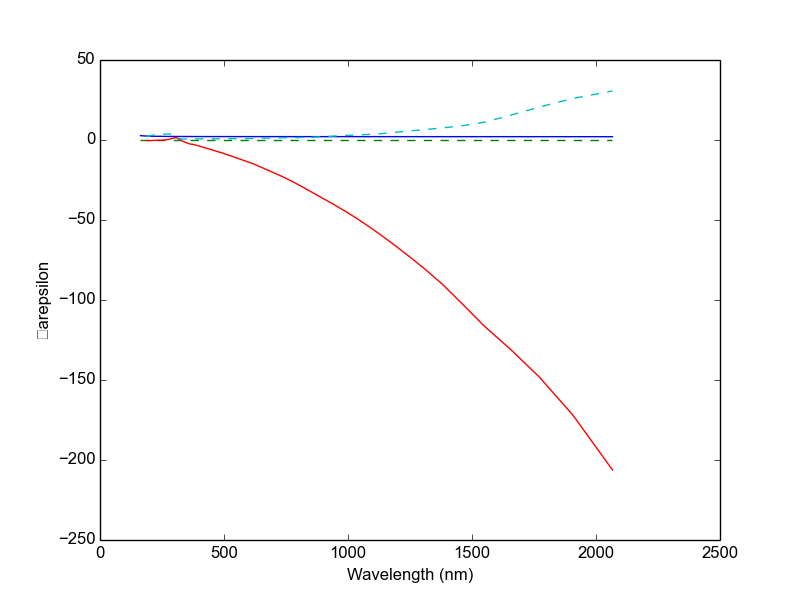
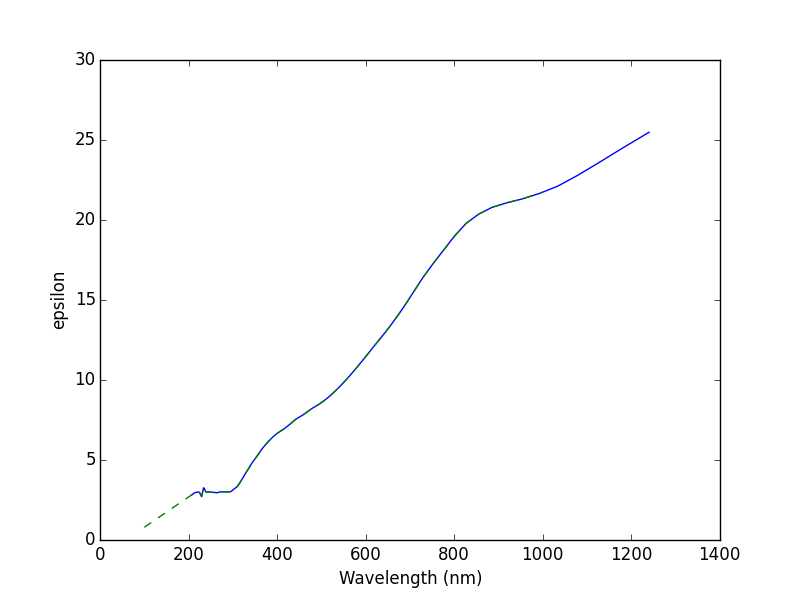
Fixed interpolation of dielectric complex-valued permittivity

diff --git a/SimpleSPP/makeTable.py b/SimpleSPP/makeTable.py
@@ -41,7 +41,7 @@ dbarray = loadtxt(database, dtype='str', delimiter='\t')
 # Now, we shall construct database for SPP lifetimes. Actually, SPP lifetime require the knowledge of all spectrum of response to be known. 
 MaterialFolder="/usr/local/share/gsvit/data/spectra"
 MaterialFile1="SiO2"
-MaterialFile2="Ag"
+MaterialFile2="Ti"
 
 # Loading Material dielectric complex permittivity into arrays
 MaterialArray2 = loadtxt(MaterialFolder+'/'+MaterialFile2, delimiter=' ', skiprows=4)
@@ -68,26 +68,27 @@ eps1=np.power(np.add(n,np.multiply(1j, k)),2)
 #print eps1
 
 wavelengths2=MaterialArray2[:,0]
-wavelengths2=np.multiply(wavelengths2,1e-6) #converting wavelength to emters
+wavelengths2=np.multiply(wavelengths2,1e-6) #converting wavelength to meters
 n=MaterialArray2[:,1]; k=MaterialArray2[:,2]
 eps2=np.power(np.add(n,np.multiply(1j, k)),2)
 #print eps2
 
 # Before doing calculations, we shall interpolate the most dense mesh on the second, and take their intersection. 
-print eps1.size, eps2.size
+print "Wavelength mesh size 1="+str(eps1.size)
+print "Wavelength mesh size 2="+str(eps2.size)
 
-xnew = np.arange(100e-9,2e-6,10e-9)
+# dense mesh generation
+xnew = np.arange(100e-9,1e-6,1e-9)
 order=1
-feps1=InterpolatedUnivariateSpline(wavelengths1, eps1, k=order)
-feps2=InterpolatedUnivariateSpline(wavelengths2, eps2, k=order)
-eps1new=feps1(xnew)
-eps2new=feps2(xnew)
-# TODO: careful this does not work for complex-valued functions
+feps1r=InterpolatedUnivariateSpline(wavelengths1, eps1.real, k=order)
+feps1i=InterpolatedUnivariateSpline(wavelengths1, eps1.imag, k=order)
+feps2r=InterpolatedUnivariateSpline(wavelengths2, eps2.real, k=order)
+feps2i=InterpolatedUnivariateSpline(wavelengths2, eps2.imag, k=order)
 
-def RealDerivativeByComplex(f,z):
-  """Complex derivative a real-valued function f: z->f(z)
-  """
-  return 0.5*(np.diff(f,z.real) - 1j*np.diff(z.imag))
+print "Interpolating on Wavelength mesh size = "+str(xnew.size)
+
+eps1new=np.add(feps1r(xnew),np.multiply(1.0j, feps1i(xnew)))
+eps2new=np.add(feps2r(xnew),np.multiply(1.0j, feps2i(xnew)))
 
 #def NewLifeTime():
   #"""
@@ -104,16 +105,29 @@ def RealDerivativeByComplex(f,z):
   #LifeTime=0.5/betaSPP.real * (SPPgroupVelocity)**(-1)
   #return LifeTime
 
-## Show dielectric function
+### Checking interpolation of the dielectric function
 plt.figure()
 plt.xlabel('Wavelength (nm)')
-plt.ylabel('\varepsilon')
-plt.plot(1e9*wavelengths1, eps1.real, '-', label='Re('+MaterialFile1+')')
-plt.plot(1e9*wavelengths1, eps1.imag, '--', label='Im('+MaterialFile1+')')
-plt.plot(1e9*wavelengths2, eps2.real, '-', label='Re('+MaterialFile2+')')
-plt.plot(1e9*wavelengths2, eps2.imag, '--', label='Im('+MaterialFile2+')')
-plt.savefig('epsilon.png')
-plt.show()
+plt.ylabel('epsilon')
+#plt.plot(1e9*wavelengths1, eps1.real, '-', label='Re('+MaterialFile1+')')
+#plt.plot(1e9*xnew, eps1new.real, '--', label='interp Re('+MaterialFile1+')')
+#plt.plot(1e9*wavelengths1, eps1.imag, '-', label='Im('+MaterialFile1+')')
+#plt.plot(1e9*xnew, eps1new.imag, '--', label='interp Im('+MaterialFile1+')')
+#plt.plot(1e9*wavelengths2, eps2.real, '-', label='Re('+MaterialFile2+')')
+#plt.plot(1e9*xnew, eps2new.real, '--', label='interp Re('+MaterialFile2+')')
+plt.plot(1e9*wavelengths2, eps2.imag, '-', label='Im('+MaterialFile2+')')
+plt.plot(1e9*xnew, eps2new.imag, '--', label='interp Im('+MaterialFile2+')')
 
+plt.savefig('epsilon.png')
+
+## plot SPP dispersion relation
+#kspp = betaSPP(wavelengths2, eps1, eps2)
+#omegaspp=omega(wavelengths2)
+#plt.figure()
+#plt.xlabel('k (m^{-1})')
+#plt.ylabel('\omega (s^{-1})')
+#plt.plot(kspp.real, omegaspp)
+
+## plot the lifetime with wavelength
 #print MaterialArray
 #print LifeTimeSpectrum(Material)

diff --git a/SimpleSPP/SimpleSPProutines.py b/SimpleSPP/SimpleSPProutines.py
@@ -65,6 +65,7 @@ def DecayDepth(kzSPP):
 
 def kzSPP(wavelength,eps1,eps2):
   return cmath.sqrt(betaSPP(wavelength,eps1,eps2)**2-eps1*(omega(wavelength)**2/c**2))
+
   
 # OPTICAL FUNCTIONS
 def Drude(wavelength, ne, epsilon, nu):
@@ -148,3 +149,9 @@ def SPPactiveInterfaces(dbarray, comment):
             counter=counter+1
             print '{0:12s} {1:12s} {2:15f} {3:12s} {4:12s} {5:11f} {6:16f} {7:16f} {8:12f}'.format(Material1, Material2, Wavelength, OldSPPactiveBool, NewSPPactiveBool, SPPperiod, SPPdecayDepth1, SPPdecayDepth2, Reflectivity)
   return 0
+
+
+def RealDerivativeByComplex(f,z):
+  """Complex derivative a real-valued function f: z->f(z)
+  """
+  return 0.5*(np.diff(f,z.real) - 1j*np.diff(z.imag))
